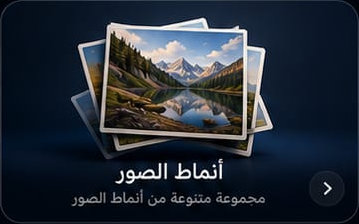
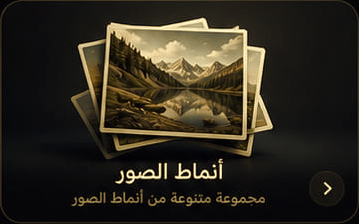
الأدوات على الكمبيوتر بعرض مريح 1100px، وبطاقات الأدوات كلها بلون ذهبي موحّد
- المحتوى في نوافذ الأدوات ونافذة الأدوات يتوسّط الشاشة بعرض 1100–1180px بدل التمدد الكامل
- بطاقات الأدوات الـ18 أُعيد تلوينها بدرجات الذهبي (الأصل محفوظ في assets/tool-cards/full-orig)

Claude-Session: https://claude.ai/code/session_01J9nouLDDGN3kdVK1cNW9nu

diff --git a/css/tokens.css b/css/tokens.css
@@ -1004,15 +1004,17 @@ html.store-safe #aboutStocksCard{display:none !important;}
 @media (min-width: 761px){
   #portraitStyleModal > div, #videoMakerModal > div, #designAiModal > div, #fashionAiModal > div,
   #studioAiModal > div, #constructionModal > div, #religionModal > div, #emailAssistModal > div{
-    padding-left:28px !important;
-    padding-right:28px !important;
+    /* v-tools-deskfit (شكوى المالك «كبرت الشاشة زيادة»): الخلفية شاشة كاملة، والمحتوى بعرض مريح 1100px في الوسط */
+    padding-left:max(28px, calc((100vw - 1100px) / 2)) !important;
+    padding-right:max(28px, calc((100vw - 1100px) / 2)) !important;
   }
-  #eduHubModal .eduWrap, #expModal .expWrap, .xm .xmWrap{max-width:none !important; border-inline:none !important;}
-  html body #videoMakerModal .vmk-studio{max-width:none !important; width:100% !important; margin:0 !important;}
+  #eduHubModal .eduWrap, #expModal .expWrap, .xm .xmWrap{max-width:1100px !important; margin-inline:auto !important;}
+  html body #videoMakerModal .vmk-studio{max-width:1100px !important; margin-inline:auto !important;}
+  #eduHubModal .eduWrap, #expModal .expWrap, .xm .xmWrap{border-inline:none !important;}
   /* نافذة الأدوات نفسها شاشة كاملة على الكمبيوتر (لقطة المالك: بطاقة وسط الشاشة بشريط سحب) */
   #sectionsToolsOverlay{align-items:stretch !important; padding:0 !important;}
-  html[lang] body #sectionsToolsPopup{max-width:none !important; width:100% !important; height:100% !important; max-height:none !important; border:none !important; border-radius:0 !important; padding:18px 28px 32px !important;}
-  html[lang] body #sectionsToolsPopup .ptGrid{grid-template-columns:repeat(auto-fill, minmax(240px, 1fr)) !important; gap:14px !important;}
+  html[lang] body #sectionsToolsPopup{max-width:none !important; width:100% !important; height:100% !important; max-height:none !important; border:none !important; border-radius:0 !important; padding:18px max(28px, calc((100vw - 1180px) / 2)) 32px !important;}
+  html[lang] body #sectionsToolsPopup .ptGrid{grid-template-columns:repeat(auto-fill, minmax(190px, 1fr)) !important; gap:12px !important;}
   /* بلا شريط سحب ظاهر في الأدوات على الكمبيوتر */
   #sectionsToolsPopup, #portraitStyleModal > div, #videoMakerModal > div, #designAiModal > div, #fashionAiModal > div,
   #studioAiModal > div, #constructionModal > div, #religionModal > div, #emailAssistModal > div,

diff --git a/js/tool-card-images.js b/js/tool-card-images.js
@@ -28,7 +28,7 @@
   var FULL_AR_IDS = ['btnVideoMaker','btnQuickTemplates','btnPortraitStyle','btnStudioAI','btnFashionAI','btnDesignAI','btnAdStudio','btnStocks','btnOmranTV','btnQibla','btnExpense','btnOmranEdu','btnConstruction','btnReligion','btnCV','btnDocs','btnFeedback','btnEmailAssist'];
   function isAr(){ return String(document.documentElement.lang || 'ar').toLowerCase().indexOf('ar') === 0; }
   function srcFor(id){
-    if(isAr() && FULL_AR_IDS.indexOf(id) !== -1) return '/assets/tool-cards/full/' + id + '.png?v=2';
+    if(isAr() && FULL_AR_IDS.indexOf(id) !== -1) return '/assets/tool-cards/full/' + id + '.png?v=3';
     return TOOL_PHOTOS[id];
   }
 

diff --git a/index.html b/index.html
@@ -106,7 +106,7 @@ window.__swallow = window.__swallow || function (err, ctx) {
 <link rel="apple-touch-icon" href="/icons/apple-touch-icon-v2.png?icon=gold-20260819">
 <link rel="preconnect" href="https://fonts.googleapis.com">
 <link href="https://fonts.googleapis.com/css2?family=Plus+Jakarta+Sans:wght@400;500;600;700&family=Tajawal:wght@400;500;700&family=Inter:wght@400;500;700&display=swap" rel="stylesheet">
-<link rel="stylesheet" href="css/tokens.css?v=675">
+<link rel="stylesheet" href="css/tokens.css?v=676">
 <link rel="stylesheet" href="css/redesign.css?v=655">
 <link rel="stylesheet" href="css/modules.css?v=651">
 <script>

diff --git a/js/ui-wiring.js b/js/ui-wiring.js
@@ -208,7 +208,7 @@ try{ sessionStorage.removeItem('omranBootRetry'); }catch(e){ /* guard-ok: بلا
   }
   if(!document.querySelector('script[data-omran-tool-photos]')){
     var js = document.createElement('script');
-    js.src = '/js/tool-card-images.js?v=5';
+    js.src = '/js/tool-card-images.js?v=6';
     js.async = false;
     js.setAttribute('data-omran-tool-photos', '');
     document.head.appendChild(js);
